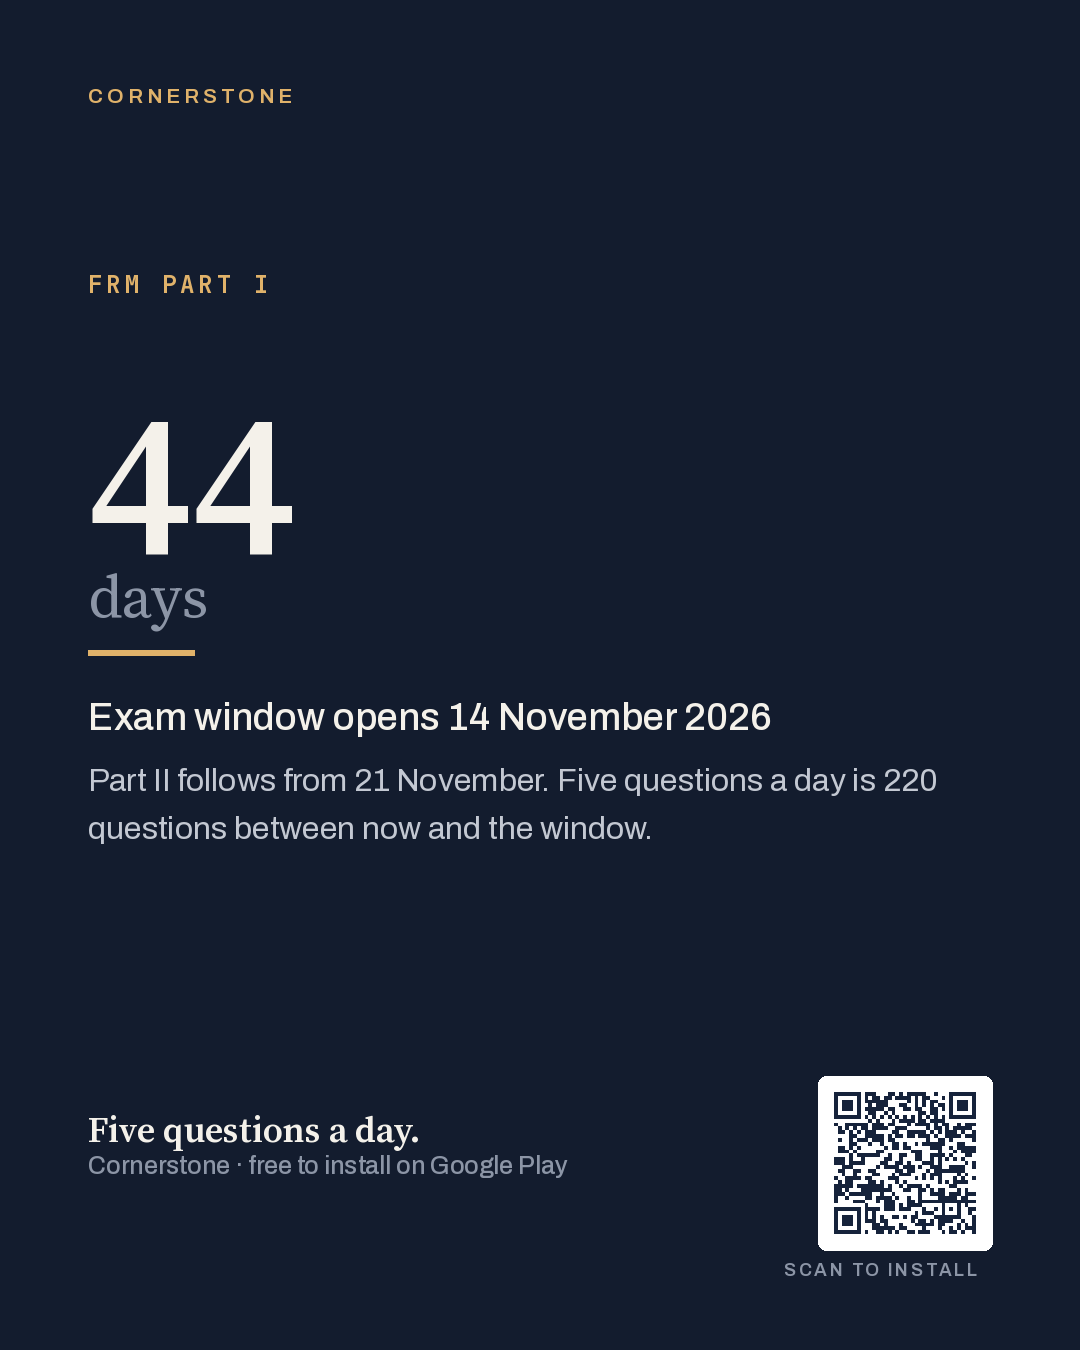
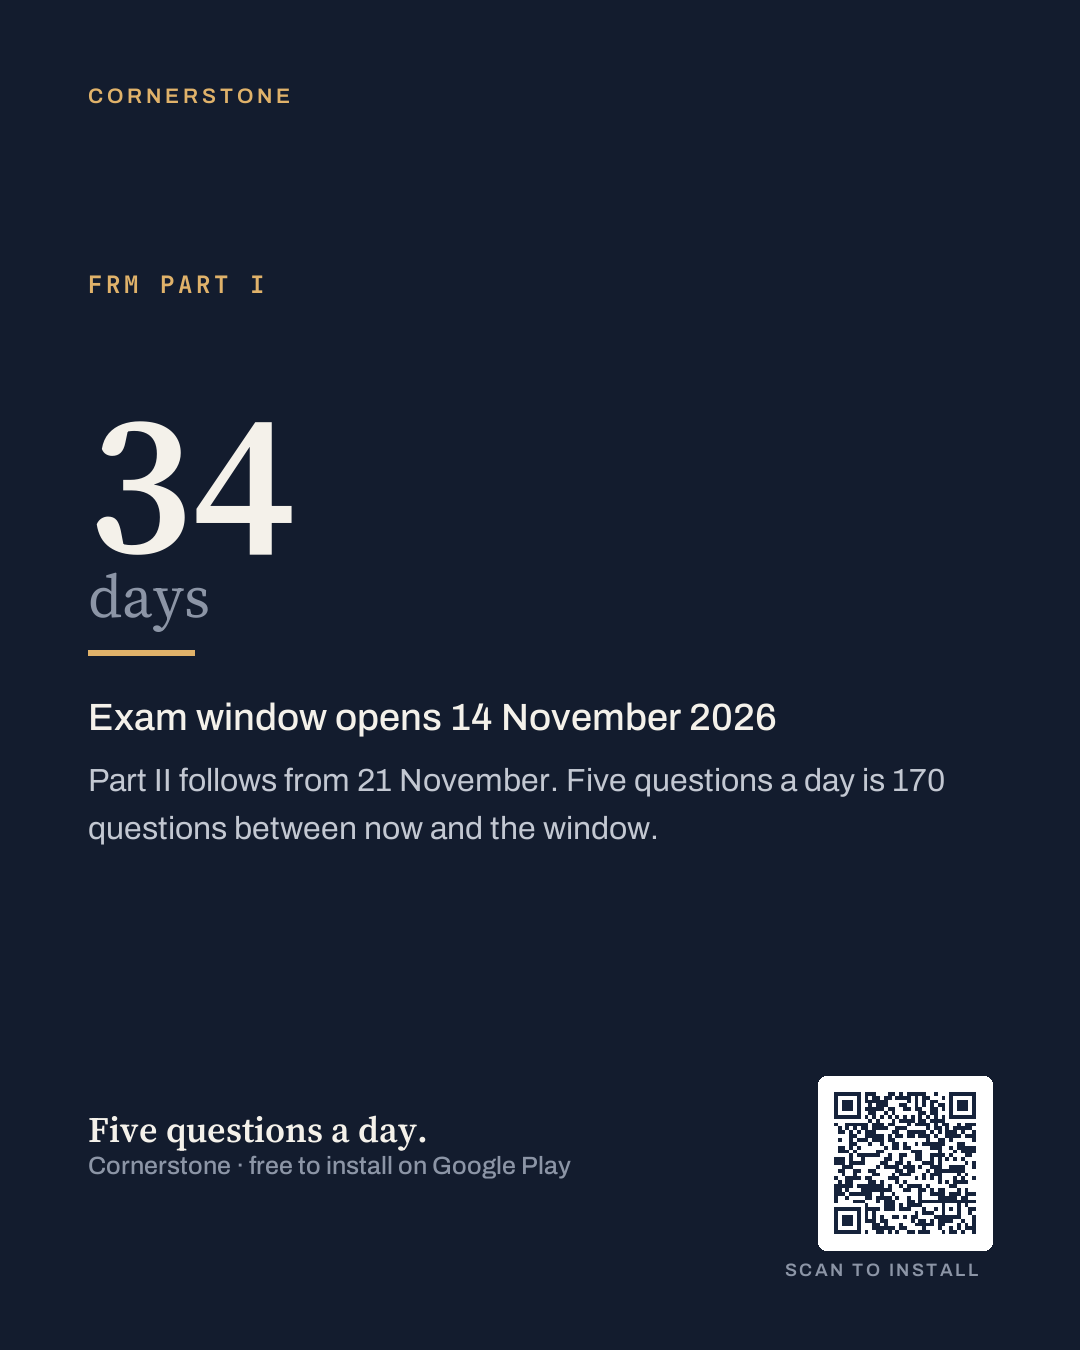
Wire the web channel, and make two loose posters reproducible
**`?c=web`.** `web` joins the `/get/` allowlist and `install()` appends it, so
every link on the generated FRM pages carries a channel instead of landing
anonymously on the default listing. It attributes nothing until a custom store
listing named `web` is created in the Console — the Play API cannot create or
read one — but an unknown `listing` value falls back to the default rather than
erroring, so this is inert, not broken, and starts working with no code change.

**cs-quiz-04.** The Bayes card existed only as an untracked PNG nothing could
reproduce. It is now an entry in gen2.py's content block like its three
siblings, regenerated byte-for-byte in the house style. The working is in a
comment beside it: 0.0095 true positives against 0.0495 false ones gives
0.0095 / 0.059 = 16.1%, so A. A poster asserting a number should carry its
derivation next to the number.

**The countdown is re-rendered for 11 October — 34 days, 170 questions.** It is
the one poster with a shelf life, so re-run `COUNTDOWN_ON=<date> python3
gen2.py` on the day it is posted rather than reusing this file.

gen2.py stays byte-identical across both repos.

Claude-Session: https://claude.ai/code/session_011nKAJD8tykn4qbZgg13soi

diff --git a/scripts/generate-site.ts b/scripts/generate-site.ts
@@ -30,8 +30,11 @@ function esc(s: string): string {
 }
 function install(): string {
   // Through /get/ rather than straight to Play, so the redirector can attribute
-  // the click to a custom store listing.
-  return '[Get Cornerstone on Google Play (Android)](/CornerStone/get/)';
+  // the click to a custom store listing. `web` must also be in the allowlist in
+  // docs/get/index.html, and a custom store listing of that name has to exist in
+  // the Console — the Play API cannot create one. Until it does, Play ignores an
+  // unknown `listing` and serves the default, so this is inert rather than broken.
+  return '[Get Cornerstone on Google Play (Android)](/CornerStone/get/?c=web)';
 }
 function write(rel: string, body: string) {
   const path = join(DOCS, rel);

diff --git a/docs/get/index.html b/docs/get/index.html
@@ -23,7 +23,7 @@
   <script>
     (function () {
       var base = "https://play.google.com/store/apps/details?id=io.cornerstone.study";
-      var ok = ["ig", "x", "yt", "wa", "mail"];
+      var ok = ["ig", "x", "yt", "wa", "mail", "web"];
       var c = (new URLSearchParams(location.search).get("c") || "").toLowerCase();
       var url = ok.indexOf(c) > -1 ? base + "&listing=" + c : base;
       var a = document.getElementById("play");

diff --git a/marketing/social-v2/gen2.py b/marketing/social-v2/gen2.py
@@ -717,6 +717,11 @@ if __name__ == "__main__":
              "Follow the stricter Code and Standards",
              "Disclose the practice and proceed",
              "Seek written employer approval"], 1)
+    # 0.95 x 0.01 = 0.0095 true positives against 0.05 x 0.99 = 0.0495 false ones,
+    # so 0.0095 / 0.059 = 16.1%. The base rate does the work, which is the point.
+    cs_quiz("cs-quiz-04-frm-bayes.png", "FRM · Part I",
+            "A test for a rare condition has 95% sensitivity and 95% specificity. The condition affects 1% of the population. Given a positive result, the probability the condition is present is closest to:",
+            ["16%", "48%", "85%", "95%"], 0)
 
     cs_glossary("cs-glossary.png", [
         ("Value at Risk", "VaR",

diff --git a/TODO.md b/TODO.md
@@ -124,22 +124,21 @@ runtime, so the 1.3.0 binaries already out there stop receiving updates until a 
 replaces them. That is a release-planning decision, not a code change — do it as part of the
 next OTC Learn release, never on its own.
 
-## 4a. `?c=web` is not in the `/get/` allowlist, so the FRM pages attribute nothing
+## 4a. The `web` channel is wired but inert until a custom listing exists
 
-`docs/get/index.html` routes `?c=<channel>` to a Play custom store listing from the allowlist
-`ig, x, yt, wa, mail`. The generated FRM pages all link through `/get/` with no channel, so
-every install that starts on the website lands on the default listing and is indistinguishable
-from direct traffic.
+`docs/get/index.html` routes `?c=<channel>` to a Play custom store listing. `web` is now in
+the allowlist and `install()` in `scripts/generate-site.ts` appends `?c=web`, so every link
+on the generated FRM pages carries it.
 
-`install()` originally passed `'web'`, which is not in the allowlist and was silently dropped;
-the dead argument was removed in `df68856` rather than guessed at, because **adding a channel
-means creating a custom store listing in the Console** and the Play API cannot read or write
-them (`docs/STORE_LISTING.md`). Decide whether a `web` listing should exist; if it should,
-add it in the Console first, then to the allowlist and to `install()` together.
+**It attributes nothing yet.** A custom store listing named `web` has to be created in the
+Console — Grow users → Store presence → Store listings — and the Play API cannot create or
+read one. Until it exists, Play ignores an unknown `listing` value and serves the default
+listing, so the parameter is inert rather than broken, and it starts working the moment the
+listing is created with no code change.
 
-Worth confirming while in there that `ig, x, yt, wa, mail` each correspond to a listing that
-actually exists. An unknown `listing=` value falls back to the default rather than erroring,
-so five broken channels would look exactly like five working ones.
+Worth confirming in the same sitting that `ig, x, yt, wa, mail` each correspond to a listing
+that actually exists. Because an unknown value falls back silently, five broken channels look
+exactly like five working ones.
 
 ## 5. Cross-repo duplication — ~1,000 lines of identical domain logic
 

diff --git a/docs/glossary/frm.md b/docs/glossary/frm.md
@@ -870,7 +870,7 @@ The single discount rate that equates a bond’s price to the present value of i
 
 **Exam angle:** Assumes every coupon is reinvested at the YTM and the bond is held to maturity. Both assumptions usually fail, which is why realised return differs from YTM.
 
-[Get Cornerstone on Google Play (Android)](/CornerStone/get/)
+[Get Cornerstone on Google Play (Android)](/CornerStone/get/?c=web)
 
 [FRM topic map](/CornerStone/frm/)
 

diff --git a/docs/frm/p1-quant.md b/docs/frm/p1-quant.md
@@ -120,7 +120,7 @@ D. Cannot be estimated from historical returns
 
 The app adds snapshot cards, timed question sessions and a spaced-repetition review queue for this topic area, and works offline.
 
-[Get Cornerstone on Google Play (Android)](/CornerStone/get/)
+[Get Cornerstone on Google Play (Android)](/CornerStone/get/?c=web)
 
 [All FRM topic areas](/CornerStone/frm/) · [FRM glossary](/CornerStone/glossary/frm/)
 

diff --git a/docs/frm/p2-current.md b/docs/frm/p2-current.md
@@ -115,7 +115,7 @@ D. Are always fully insured by deposit schemes
 
 The app adds snapshot cards, timed question sessions and a spaced-repetition review queue for this topic area, and works offline.
 
-[Get Cornerstone on Google Play (Android)](/CornerStone/get/)
+[Get Cornerstone on Google Play (Android)](/CornerStone/get/?c=web)
 
 [All FRM topic areas](/CornerStone/frm/) · [FRM glossary](/CornerStone/glossary/frm/)
 

diff --git a/docs/frm/p1-markets.md b/docs/frm/p1-markets.md
@@ -123,7 +123,7 @@ D. Indeterminate without the forward curve
 
 The app adds snapshot cards, timed question sessions and a spaced-repetition review queue for this topic area, and works offline.
 
-[Get Cornerstone on Google Play (Android)](/CornerStone/get/)
+[Get Cornerstone on Google Play (Android)](/CornerStone/get/?c=web)
 
 [All FRM topic areas](/CornerStone/frm/) · [FRM glossary](/CornerStone/glossary/frm/)
 

diff --git a/docs/frm/p2-market.md b/docs/frm/p2-market.md
@@ -121,7 +121,7 @@ D. Cannot be calibrated to market data
 
 The app adds snapshot cards, timed question sessions and a spaced-repetition review queue for this topic area, and works offline.
 
-[Get Cornerstone on Google Play (Android)](/CornerStone/get/)
+[Get Cornerstone on Google Play (Android)](/CornerStone/get/?c=web)
 
 [All FRM topic areas](/CornerStone/frm/) · [FRM glossary](/CornerStone/glossary/frm/)
 

diff --git a/docs/frm/p1-foundations.md b/docs/frm/p1-foundations.md
@@ -119,7 +119,7 @@ D. Accepting it as an unknown unknown
 
 The app adds snapshot cards, timed question sessions and a spaced-repetition review queue for this topic area, and works offline.
 
-[Get Cornerstone on Google Play (Android)](/CornerStone/get/)
+[Get Cornerstone on Google Play (Android)](/CornerStone/get/?c=web)
 
 [All FRM topic areas](/CornerStone/frm/) · [FRM glossary](/CornerStone/glossary/frm/)
 

diff --git a/docs/frm/p2-credit.md b/docs/frm/p2-credit.md
@@ -117,7 +117,7 @@ D. Widening the credit spread charged
 
 The app adds snapshot cards, timed question sessions and a spaced-repetition review queue for this topic area, and works offline.
 
-[Get Cornerstone on Google Play (Android)](/CornerStone/get/)
+[Get Cornerstone on Google Play (Android)](/CornerStone/get/?c=web)
 
 [All FRM topic areas](/CornerStone/frm/) · [FRM glossary](/CornerStone/glossary/frm/)
 

diff --git a/docs/frm/p2-investment.md b/docs/frm/p2-investment.md
@@ -116,7 +116,7 @@ D. Survivorship bias in the benchmark
 
 The app adds snapshot cards, timed question sessions and a spaced-repetition review queue for this topic area, and works offline.
 
-[Get Cornerstone on Google Play (Android)](/CornerStone/get/)
+[Get Cornerstone on Google Play (Android)](/CornerStone/get/?c=web)
 
 [All FRM topic areas](/CornerStone/frm/) · [FRM glossary](/CornerStone/glossary/frm/)
 
